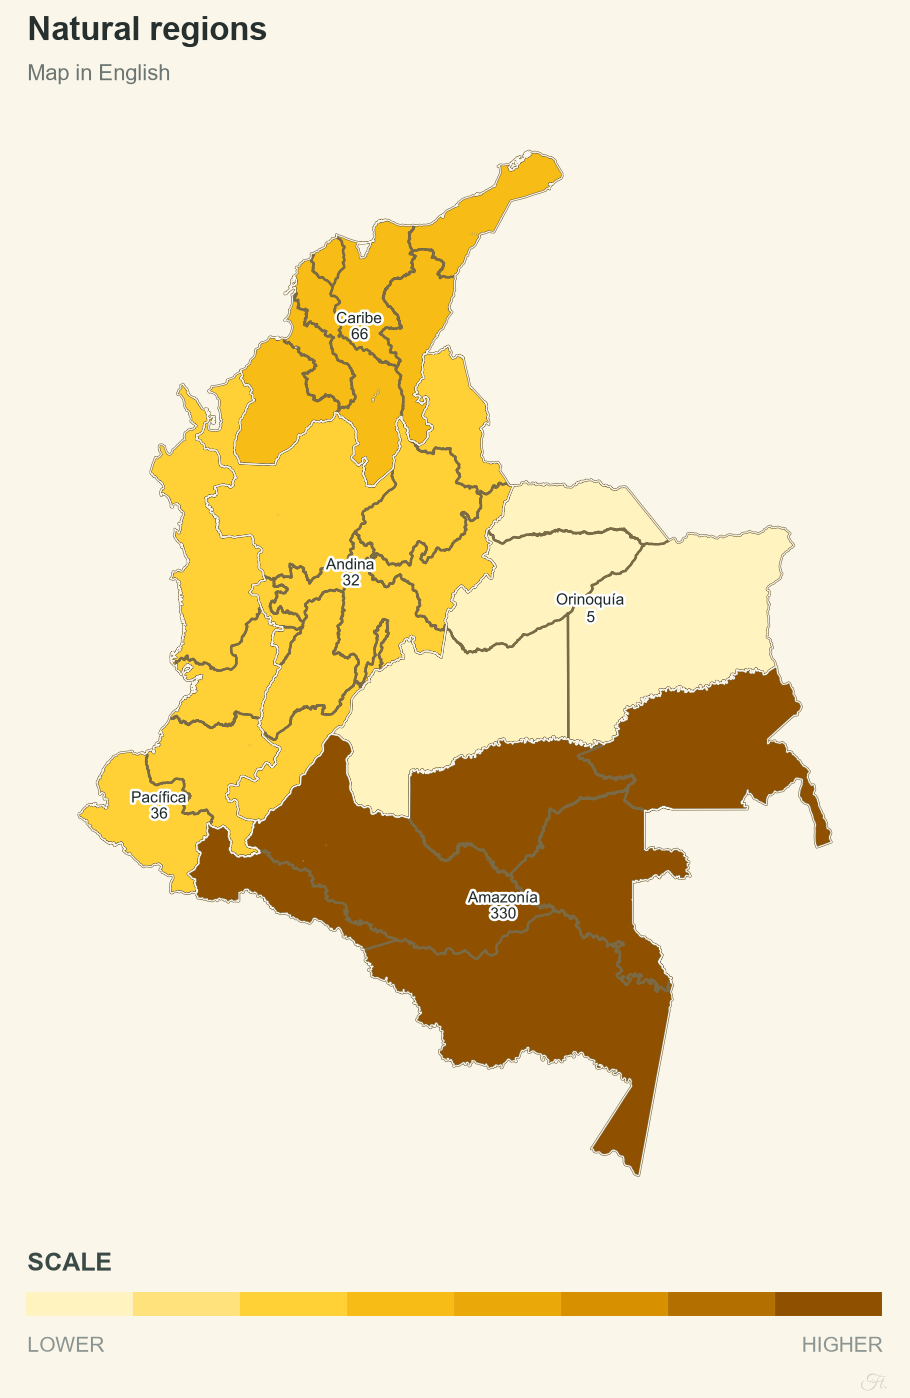
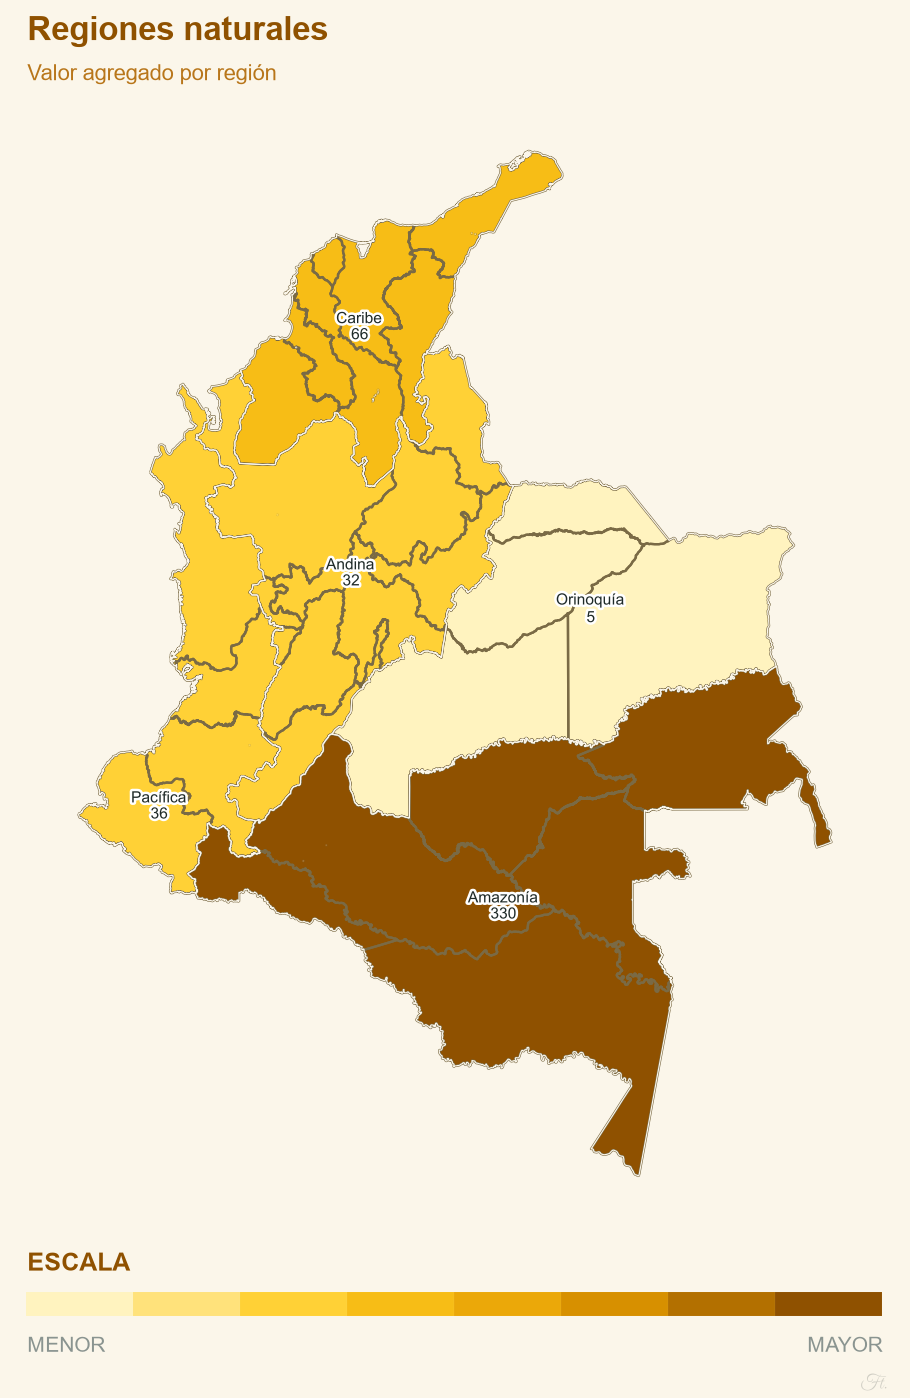
README en inglés con versión en español, secciones reordenadas, mapa de regiones en español y licencia MIT estándar

diff --git a/README.md b/README.md
@@ -1,61 +1,50 @@
-# Mapas de calor
+# Mapas de calor (Colombia heat maps)
 
-[![Streamlit](https://img.shields.io/badge/Streamlit-App%20en%20l%C3%ADnea-FF4B4B?logo=streamlit&logoColor=white)](https://mapas-de-calor.streamlit.app/)
-[![Pruebas](https://github.com/fabian-torresg/mapas-de-calor/actions/workflows/pruebas.yml/badge.svg)](https://github.com/fabian-torresg/mapas-de-calor/actions/workflows/pruebas.yml)
+**English** | [Español](README.es.md)
+
+[![Streamlit](https://img.shields.io/badge/Streamlit-Live%20app-FF4B4B?logo=streamlit&logoColor=white)](https://mapas-de-calor.streamlit.app/)
+[![Tests](https://github.com/fabian-torresg/mapas-de-calor/actions/workflows/pruebas.yml/badge.svg)](https://github.com/fabian-torresg/mapas-de-calor/actions/workflows/pruebas.yml)
 [![Python](https://img.shields.io/badge/Python-3.12%2B-3776AB?logo=python&logoColor=white)](https://www.python.org/)
 [![License](https://img.shields.io/badge/License-MIT-green)](LICENSE)
-[![Tecnologías](https://img.shields.io/badge/Tecnolog%C3%ADas-Pandas%20%7C%20GeoPandas%20%7C%20Matplotlib-orange)](#estructura)
+[![Stack](https://img.shields.io/badge/Stack-Pandas%20%7C%20GeoPandas%20%7C%20Matplotlib-orange)](#for-developers)
 
-Aplicación en Python y Streamlit que genera mapas de calor (coropletas) de Colombia por departamento, municipio,
-región natural y localidad o comuna de 22 ciudades. Recibe datos escritos en la aplicación o cargados desde Excel o CSV,
-los asocia con la geografía y exporta el mapa listo para informes y presentaciones.
+A Python and Streamlit app that generates heat maps of Colombia by department, municipality, natural region, and
+locality or commune for 22 cities. It takes data typed into the app or loaded from Excel or CSV, matches it to the
+geography, and exports a map ready for reports and presentations.
 
-**Aplicación en línea:** <https://mapas-de-calor.streamlit.app/>
+**Live app:** <https://mapas-de-calor.streamlit.app/>
 
-**Presentación:** <https://fabian-torresg.github.io/mapas-de-calor/>
+**Website:** <https://fabian-torresg.github.io/mapas-de-calor/>
 
-## Funcionalidades
+## Features
 
-- **Área:** país, regiones, departamentos, municipios (1.123) y ciudades con división interna. Admite selección parcial
-  y encuadre ajustado.
-- **Datos:** tabla editable o carga de XLSX, XLS y CSV. Los nombres se normalizan (tildes, mayúsculas, alias) y los no
-  reconocidos reciben una sugerencia. Admite formatos numéricos colombianos e internacionales y agrega duplicados.
-- **Coloración:** escala continua (lineal, raíz, logarítmica o cuantiles) o categorías, con 15 paletas o colores
-  propios. Una columna opcional de segmentos permite agrupar, colorear y delimitar lugares.
-- **Diseño:** líneas por capa, lupa sobre lugares pequeños, minimapa, barra de escala, flecha del norte, etiquetas,
-  leyenda, resumen estadístico y diez plantillas.
-- **Exportación:** mapa en PNG, JPG, TIFF, SVG o PDF; datos en CSV, Excel, JSON, Parquet o GeoJSON. Los mapas
-  guardados se descargan en un ZIP.
-- **Idioma y tema:** español e inglés; modo claro y oscuro.
+- **Area:** country, regions, departments, municipalities (1,123) and cities with internal divisions. Supports partial
+  selection and tight framing.
+- **Data:** editable table or XLSX, XLS and CSV upload. Names are normalized (accents, capitalization, aliases) and
+  unrecognized ones get a suggestion. Handles Colombian and international number formats and aggregates duplicates.
+- **Coloring:** continuous scale (linear, square root, logarithmic or quantiles) or categories, with 15 palettes or
+  custom colors. An optional segment column lets you group, color and outline places.
+- **Design:** layered lines, magnifier for small places, minimap, scale bar, north arrow, labels, legend, statistical
+  summary and ten templates.
+- **Export:** map as PNG, JPG, TIFF, SVG or PDF; data as CSV, Excel, JSON, Parquet or GeoJSON. Saved maps download as
+  a ZIP.
+- **Language and theme:** Spanish and English; light and dark mode.
 
-## Ejemplos
+## Examples
 
-Mapas generados con la aplicación a partir de datos ficticios (`examples/datos_ejemplo.xlsx`).
+Maps generated with the app from fictitious data (`examples/datos_ejemplo.xlsx`).
 
 | | | |
 | --- | --- | --- |
-| ![Colombia por departamento](docs/img/departamentos.png) | ![Municipios de Cundinamarca y Boyacá](docs/img/municipios.png) | ![Localidades de Bogotá](docs/img/ciudad.png) |
-| Departamentos, con ranking | Municipios, con minimapa y sin leyenda | Localidades de Bogotá, con nombres |
-| ![Regiones naturales en inglés](docs/img/regiones.png) | ![Comunas de Medellín](docs/img/medellin.png) | ![Antioquia por municipios](docs/img/antioquia.png) |
-| Regiones, en inglés | Comunas de Medellín, con ampliación | Antioquia, con resumen estadístico |
+| ![Colombia by department](docs/img/departamentos.png) | ![Municipalities of Cundinamarca and Boyacá](docs/img/municipios.png) | ![Localities of Bogotá](docs/img/ciudad.png) |
+| Departments, with ranking | Municipalities, with minimap and no legend | Localities of Bogotá, with names |
+| ![Natural regions](docs/img/regiones.png) | ![Communes of Medellín](docs/img/medellin.png) | ![Antioquia by municipality](docs/img/antioquia.png) |
+| Natural regions, with name and value | Communes of Medellín, with magnifier | Antioquia, with statistical summary |
 
-## Instalación
+## Data format
 
-Requiere Python 3.12 o superior.
-
-```bash
-git clone https://github.com/fabian-torresg/mapas-de-calor.git
-cd mapas-de-calor
-pip install -r requirements.txt
-streamlit run app.py
-```
-
-En la primera ejecución se descargan los límites municipales de GADM (aprox. 1 MB).
-
-## Formato de los datos
-
-Las columnas se reconocen por su encabezado. `Municipio` solo se requiere en mapas por municipio y `Segmento` es
-opcional.
+Columns are recognized by their header, which is in Spanish. `Municipio` is only required for municipality maps and
+`Segmento` is optional.
 
 | Departamento | Municipio | Valor | Segmento |
 | --- | --- | --- | --- |
@@ -64,9 +53,25 @@ opcional.
 | Nariño | Pasto | 45 % | Sur |
 | Meta | Villavicencio | $ 2.400.000 | Llanos |
 
-El archivo [`examples/datos_ejemplo.xlsx`](examples/datos_ejemplo.xlsx) contiene datos ficticios de prueba.
+The file [`examples/datos_ejemplo.xlsx`](examples/datos_ejemplo.xlsx) contains fictitious test data.
 
-## Uso como biblioteca
+## Run it on your machine
+
+You do not need to install anything to use the tool: it is available online. These steps are for running it locally or
+modifying it. Requires Python 3.12 or later.
+
+```bash
+git clone https://github.com/fabian-torresg/mapas-de-calor.git
+cd mapas-de-calor
+pip install -r requirements.txt
+streamlit run app.py
+```
+
+On the first run, the GADM municipal boundaries are downloaded (about 1 MB).
+
+## For developers
+
+### Use as a library
 
 ```python
 import pandas as pd
@@ -74,47 +79,47 @@ import mapacalor as mc
 
 df = pd.read_excel("examples/datos_ejemplo.xlsx", sheet_name="Municipios")
 em = mc.emparejar(df, "Departamento", "Valor", col_muni="Municipio", nivel="municipio")
-fig, info = mc.dibujar(em.tabla, mc.Estilo(nivel="municipio", deptos=["Cundinamarca", "Boyacá"], titulo="Mi mapa"))
-fig.savefig("mi_mapa.png")
+fig, info = mc.dibujar(em.tabla, mc.Estilo(nivel="municipio", deptos=["Cundinamarca", "Boyacá"], titulo="My map"))
+fig.savefig("my_map.png")
 ```
 
-## Estructura
+### Structure
 
 ```text
-app.py          Flujo de la página y barra lateral
-ui/             Controles, estilos, textos y pestañas de la interfaz
-mapacalor/      Motor: geometrías, lectura y emparejamiento de datos, dibujo y paletas
-data/           Catálogo de municipios, geometrías propias y tipografía de la firma
-docs/           Página de presentación (GitHub Pages)
-examples/       Datos de ejemplo
-tests/          Pruebas con pytest
+app.py          Page flow and sidebar
+ui/             Controls, styles, texts and tabs of the interface
+mapacalor/      Engine: geometries, data reading and matching, drawing and palettes
+data/           Municipality catalog, own geometries and signature typeface
+docs/           Website (GitHub Pages)
+examples/       Sample data
+tests/          pytest tests
 ```
 
-Stack: Python, pandas, GeoPandas, Shapely, matplotlib y Streamlit.
+Stack: Python, pandas, GeoPandas, Shapely, matplotlib and Streamlit.
 
-## Pruebas y despliegue
+### Tests and deployment
 
 ```bash
 pip install pytest
 python -m pytest tests
 ```
 
-GitHub Actions ejecuta pyflakes, las pruebas en Python 3.12, 3.13 y 3.14, y un análisis de seguridad. La aplicación se
-despliega en Streamlit Community Cloud apuntando a `app.py`; `requirements.txt` define las dependencias y
-`packages.txt` las tipografías de sustitución en Linux.
+GitHub Actions runs pyflakes, the tests on Python 3.12, 3.13 and 3.14, and a security scan. The app is deployed on
+Streamlit Community Cloud pointing at `app.py`; `requirements.txt` defines the dependencies and `packages.txt` the
+substitute fonts on Linux.
 
-## Fuentes y licencias
+## Sources and licenses
 
-- **Municipios y departamentos:** [GADM 4.1](https://gadm.org), uso académico y no comercial. No se redistribuye: la
-  aplicación lo descarga del sitio oficial.
-- **Países vecinos:** [Natural Earth](https://www.naturalearthdata.com), dominio público.
-- **Localidades, comunas y cinco municipios posteriores a GADM:** © colaboradores de
-  [OpenStreetMap](https://www.openstreetmap.org/copyright), licencia ODbL.
-- **Tipografía Great Vibes:** SIL Open Font License 1.1 (`data/fonts/OFL.txt`).
-- **Código:** licencia MIT.
+- **Municipalities and departments:** [GADM 4.1](https://gadm.org), academic and non-commercial use. Not
+  redistributed: the app downloads it from the official site.
+- **Neighboring countries:** [Natural Earth](https://www.naturalearthdata.com), public domain.
+- **Localities, communes and five municipalities created after GADM:** © contributors to
+  [OpenStreetMap](https://www.openstreetmap.org/copyright), ODbL license.
+- **Great Vibes typeface:** SIL Open Font License 1.1 (`data/fonts/OFL.txt`).
+- **Code:** MIT license.
 
-Se usó Claude Code (Anthropic) como asistente de programación; el diseño, la revisión y la validación son del autor.
+Claude Code (Anthropic) was used as a programming assistant.
 
-## Autor
+## Author
 
 **Fabián Torres** · [LinkedIn](https://www.linkedin.com/in/fabian-torresg) · [GitHub](https://github.com/fabian-torresg)

diff --git a/README.es.md b/README.es.md
@@ -1,0 +1,124 @@
+# Mapas de calor
+
+[English](README.md) | **Español**
+
+[![Streamlit](https://img.shields.io/badge/Streamlit-App%20en%20l%C3%ADnea-FF4B4B?logo=streamlit&logoColor=white)](https://mapas-de-calor.streamlit.app/)
+[![Pruebas](https://github.com/fabian-torresg/mapas-de-calor/actions/workflows/pruebas.yml/badge.svg)](https://github.com/fabian-torresg/mapas-de-calor/actions/workflows/pruebas.yml)
+[![Python](https://img.shields.io/badge/Python-3.12%2B-3776AB?logo=python&logoColor=white)](https://www.python.org/)
+[![License](https://img.shields.io/badge/License-MIT-green)](LICENSE)
+[![Tecnologías](https://img.shields.io/badge/Tecnolog%C3%ADas-Pandas%20%7C%20GeoPandas%20%7C%20Matplotlib-orange)](#para-desarrolladores)
+
+Aplicación en Python y Streamlit que genera mapas de calor de Colombia por departamento, municipio,
+región natural y localidad o comuna de 22 ciudades. Recibe datos escritos en la aplicación o cargados desde Excel o CSV,
+los asocia con la geografía y exporta el mapa listo para informes y presentaciones.
+
+**Aplicación en línea:** <https://mapas-de-calor.streamlit.app/>
+
+**Página web:** <https://fabian-torresg.github.io/mapas-de-calor/>
+
+## Funcionalidades
+
+- **Área:** país, regiones, departamentos, municipios (1.123) y ciudades con división interna. Admite selección parcial
+  y encuadre ajustado.
+- **Datos:** tabla editable o carga de XLSX, XLS y CSV. Los nombres se normalizan (tildes, mayúsculas, alias) y los no
+  reconocidos reciben una sugerencia. Admite formatos numéricos colombianos e internacionales y agrega duplicados.
+- **Coloración:** escala continua (lineal, raíz, logarítmica o cuantiles) o categorías, con 15 paletas o colores
+  propios. Una columna opcional de segmentos permite agrupar, colorear y delimitar lugares.
+- **Diseño:** líneas por capa, lupa sobre lugares pequeños, minimapa, barra de escala, flecha del norte, etiquetas,
+  leyenda, resumen estadístico y diez plantillas.
+- **Exportación:** mapa en PNG, JPG, TIFF, SVG o PDF; datos en CSV, Excel, JSON, Parquet o GeoJSON. Los mapas
+  guardados se descargan en un ZIP.
+- **Idioma y tema:** español e inglés; modo claro y oscuro.
+
+## Ejemplos
+
+Mapas generados con la aplicación a partir de datos ficticios (`examples/datos_ejemplo.xlsx`).
+
+| | | |
+| --- | --- | --- |
+| ![Colombia por departamento](docs/img/departamentos.png) | ![Municipios de Cundinamarca y Boyacá](docs/img/municipios.png) | ![Localidades de Bogotá](docs/img/ciudad.png) |
+| Departamentos, con ranking | Municipios, con minimapa y sin leyenda | Localidades de Bogotá, con nombres |
+| ![Regiones naturales](docs/img/regiones.png) | ![Comunas de Medellín](docs/img/medellin.png) | ![Antioquia por municipios](docs/img/antioquia.png) |
+| Regiones naturales, con nombre y valor | Comunas de Medellín, con ampliación | Antioquia, con resumen estadístico |
+
+## Formato de los datos
+
+Las columnas se reconocen por su encabezado. `Municipio` solo se requiere en mapas por municipio y `Segmento` es
+opcional.
+
+| Departamento | Municipio | Valor | Segmento |
+| --- | --- | --- | --- |
+| Antioquia | Rionegro | 1.250 | Oriente |
+| Santander | Barichara | 38,5 | Turismo |
+| Nariño | Pasto | 45 % | Sur |
+| Meta | Villavicencio | $ 2.400.000 | Llanos |
+
+El archivo [`examples/datos_ejemplo.xlsx`](examples/datos_ejemplo.xlsx) contiene datos ficticios de prueba.
+
+## Ejecutar en tu equipo
+
+Para usar la herramienta no hace falta instalar nada: está disponible en línea. Estos pasos sirven para ejecutarla en tu equipo o modificarla. Requiere Python 3.12 o superior.
+
+```bash
+git clone https://github.com/fabian-torresg/mapas-de-calor.git
+cd mapas-de-calor
+pip install -r requirements.txt
+streamlit run app.py
+```
+
+En la primera ejecución se descargan los límites municipales de GADM (aprox. 1 MB).
+
+## Para desarrolladores
+
+### Uso como biblioteca
+
+```python
+import pandas as pd
+import mapacalor as mc
+
+df = pd.read_excel("examples/datos_ejemplo.xlsx", sheet_name="Municipios")
+em = mc.emparejar(df, "Departamento", "Valor", col_muni="Municipio", nivel="municipio")
+fig, info = mc.dibujar(em.tabla, mc.Estilo(nivel="municipio", deptos=["Cundinamarca", "Boyacá"], titulo="Mi mapa"))
+fig.savefig("mi_mapa.png")
+```
+
+### Estructura
+
+```text
+app.py          Flujo de la página y barra lateral
+ui/             Controles, estilos, textos y pestañas de la interfaz
+mapacalor/      Motor: geometrías, lectura y emparejamiento de datos, dibujo y paletas
+data/           Catálogo de municipios, geometrías propias y tipografía de la firma
+docs/           Página de presentación (GitHub Pages)
+examples/       Datos de ejemplo
+tests/          Pruebas con pytest
+```
+
+Stack: Python, pandas, GeoPandas, Shapely, matplotlib y Streamlit.
+
+### Pruebas y despliegue
+
+```bash
+pip install pytest
+python -m pytest tests
+```
+
+GitHub Actions ejecuta pyflakes, las pruebas en Python 3.12, 3.13 y 3.14, y un análisis de seguridad. La aplicación se
+despliega en Streamlit Community Cloud apuntando a `app.py`; `requirements.txt` define las dependencias y
+`packages.txt` las tipografías de sustitución en Linux.
+
+## Fuentes y licencias
+
+- **Municipios y departamentos:** [GADM 4.1](https://gadm.org), uso académico y no comercial. No se redistribuye: la
+  aplicación lo descarga del sitio oficial.
+- **Países vecinos:** [Natural Earth](https://www.naturalearthdata.com), dominio público.
+- **Localidades, comunas y cinco municipios posteriores a GADM:** © colaboradores de
+  [OpenStreetMap](https://www.openstreetmap.org/copyright), licencia ODbL.
+- **Tipografía Great Vibes:** SIL Open Font License 1.1 (`data/fonts/OFL.txt`).
+- **Código:** licencia MIT.
+
+Se usó Claude Code (Anthropic) como asistente de programación.
+
+## Autor
+
+**Fabián Torres** · [LinkedIn](https://www.linkedin.com/in/fabian-torresg) · [GitHub](https://github.com/fabian-torresg)
